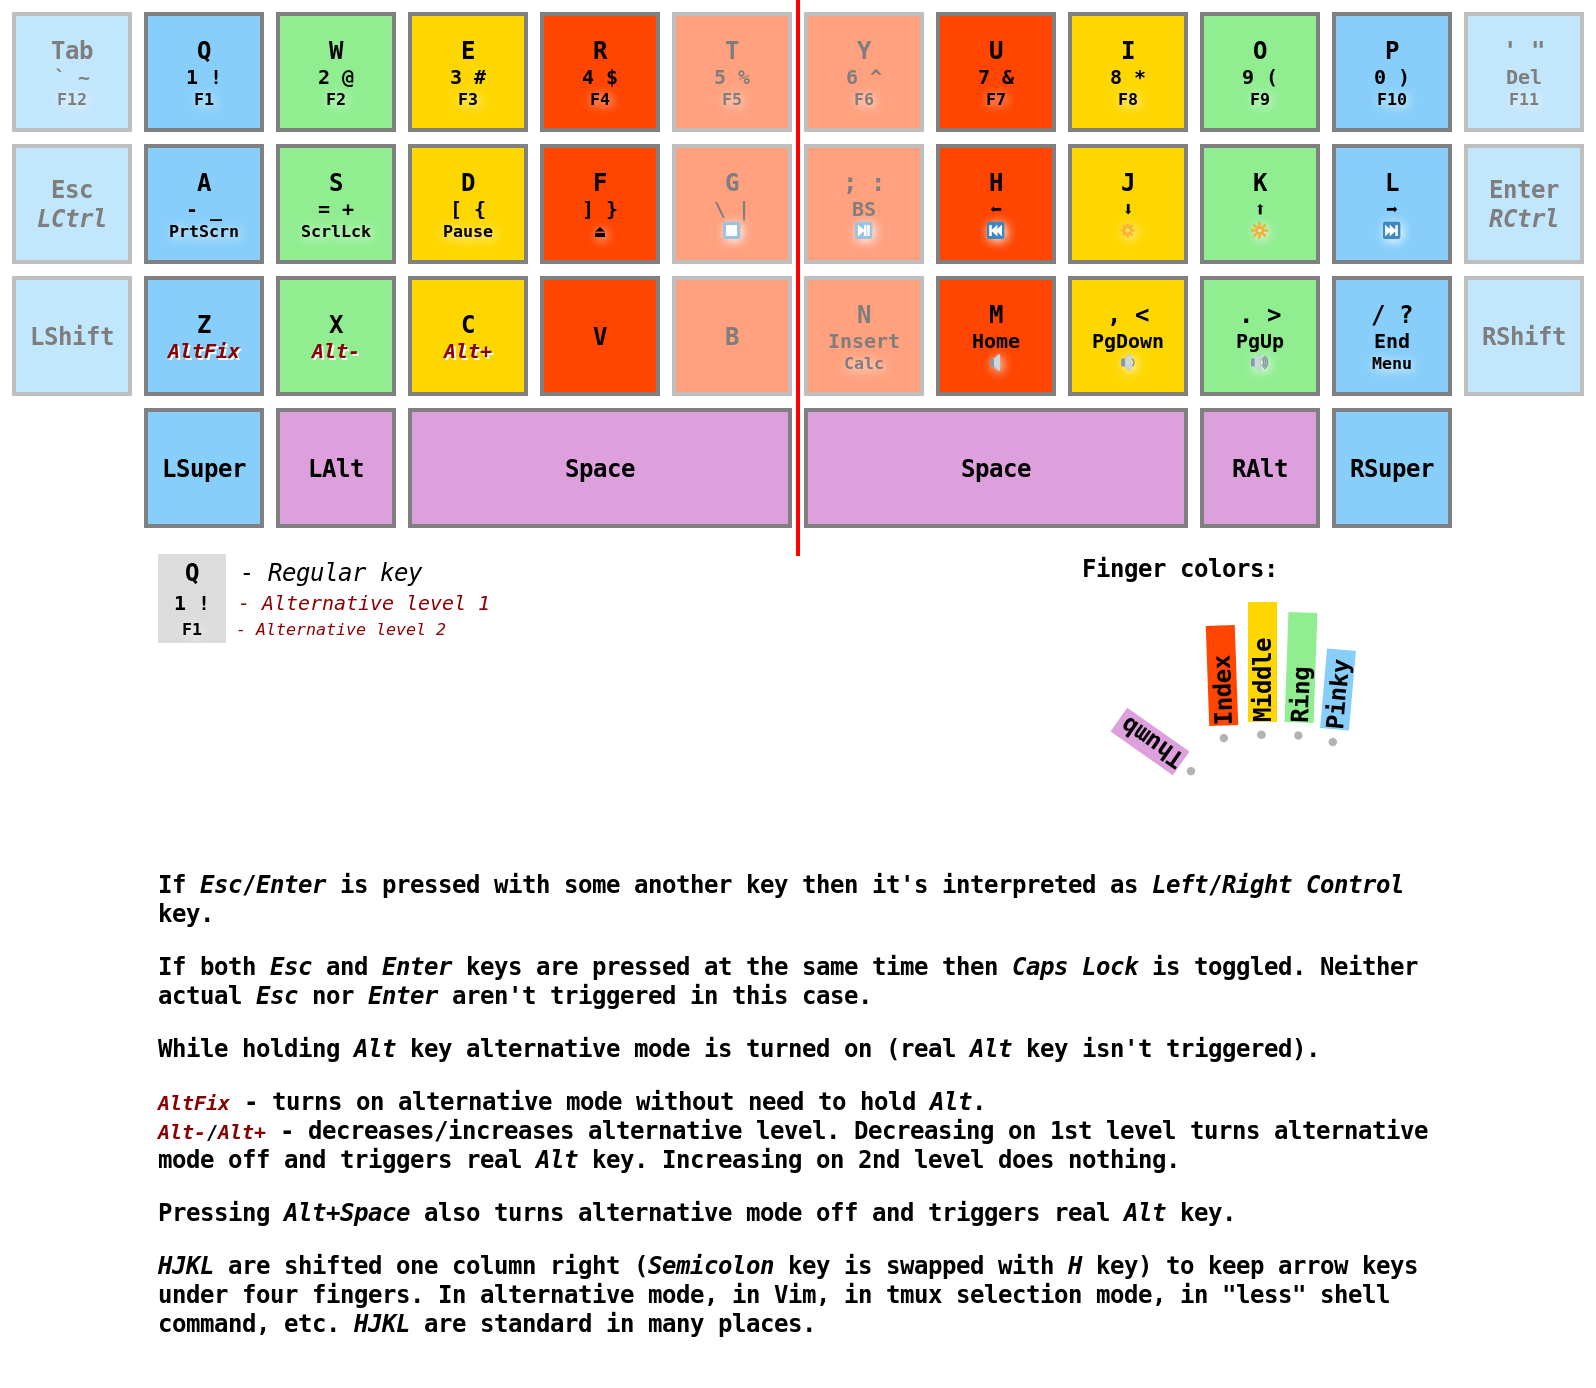
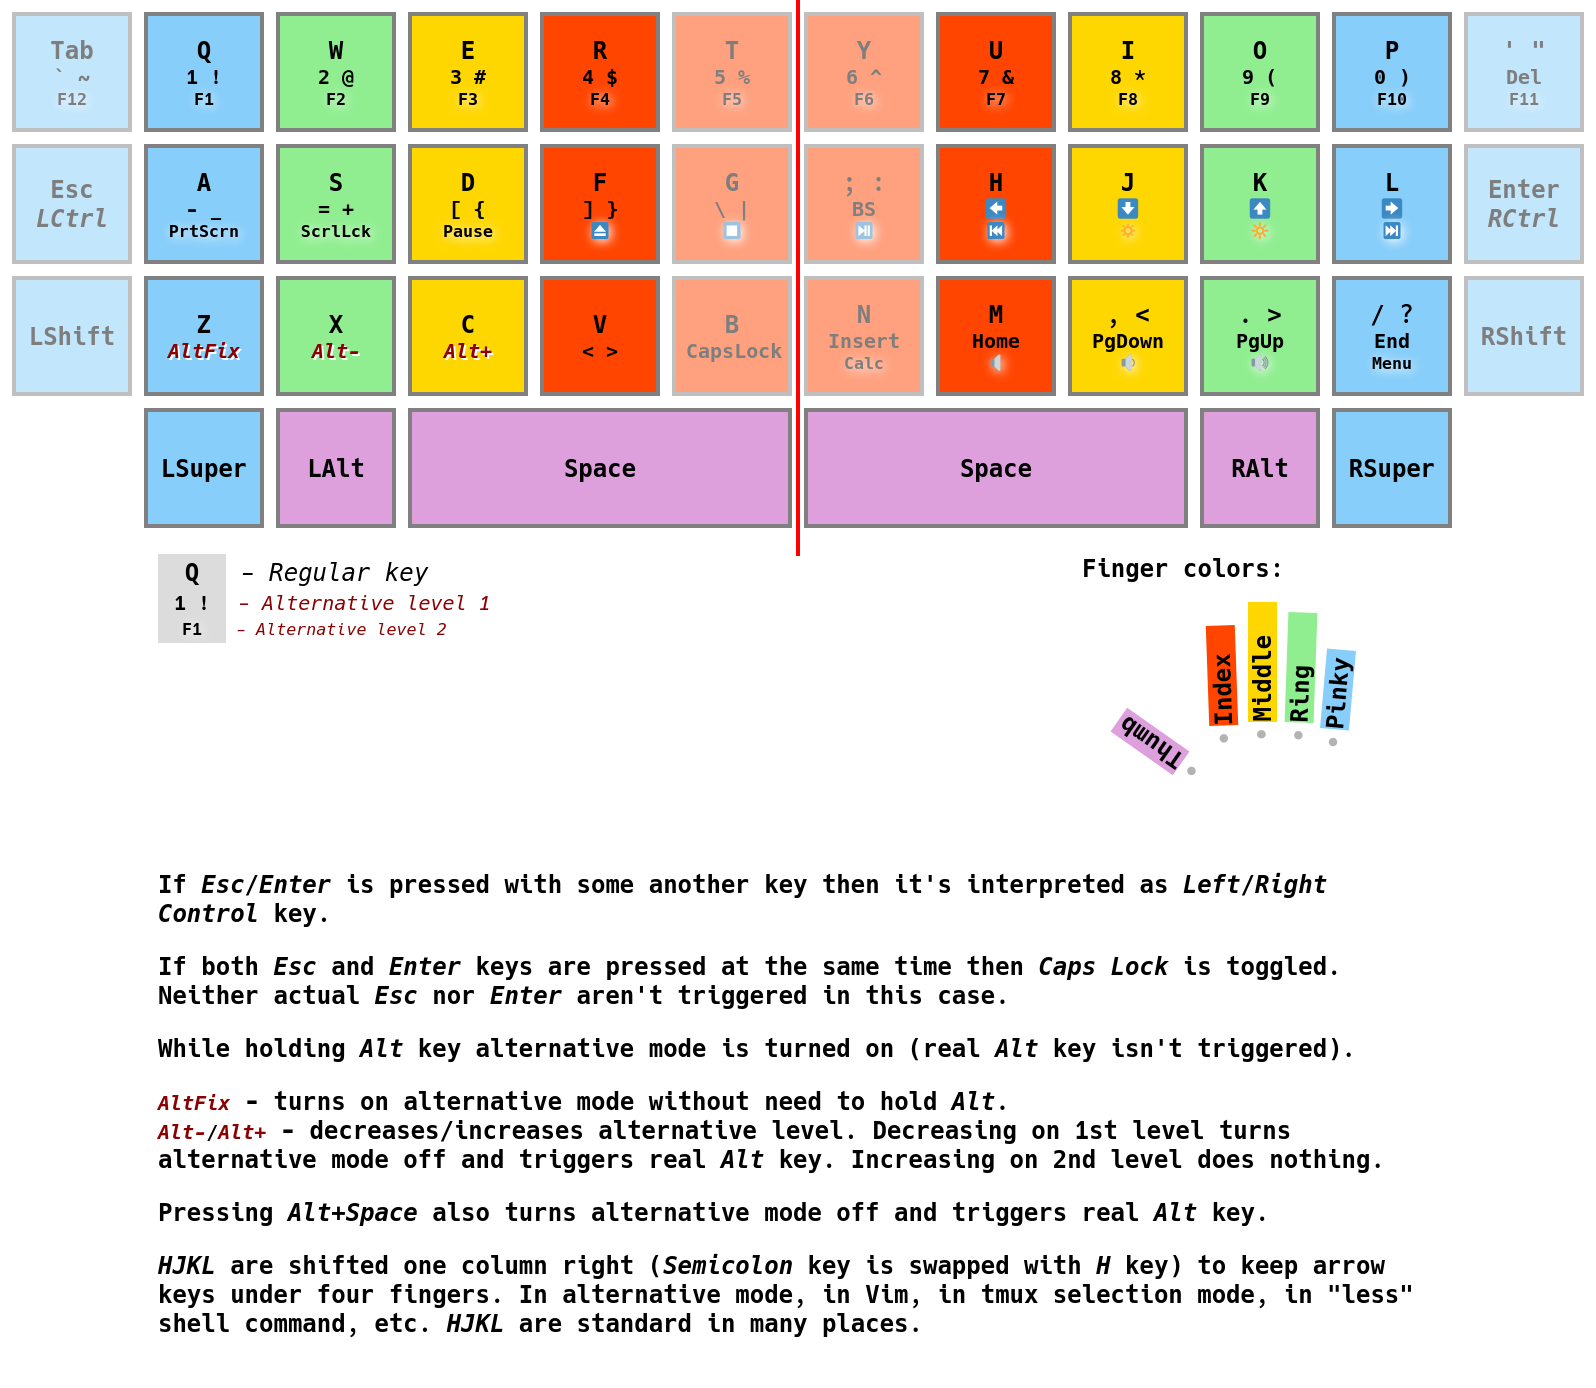
Map ‘V’ in alternative mode level 1 to ‘LessKey’

diff --git a/docs/scheme/ergonomic-mode-and-shifted-hjkl.html b/docs/scheme/ergonomic-mode-and-shifted-hjkl.html
@@ -159,8 +159,8 @@
 				<td class="pinky  left">                           Z      <small> <i>AltFix</i>                         </small></td>
 				<td class="ring   left">                           X      <small> <i>Alt-</i>                           </small></td>
 				<td class="middle left">                           C      <small> <i>Alt+</i>                           </small></td>
-				<td class="index  left">                           V                                                            </td>
-				<td class="index  left before-split">              B                                                            </td>
+				<td class="index  left">                           V      <small> &lt; &gt;                             </small></td>
+				<td class="index  left before-split">              B      <small> CapsLock                              </small></td>
 				<td class="index  right">                          N      <small> Insert        <small> Calc    </small></small></td>
 				<td class="index  right">                          M      <small> Home          <small> 🔈      </small></small></td>
 				<td class="middle right">                          , &lt; <small> PgDown        <small> 🔉      </small></small></td>
